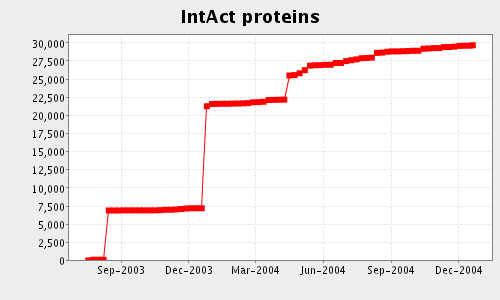
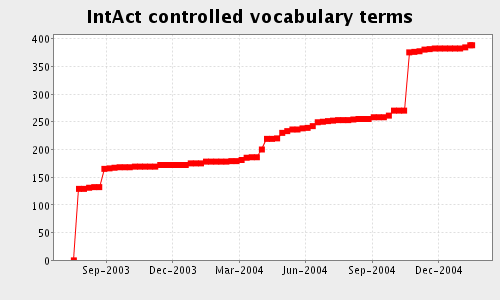
2005-02 release

Changed region(s): [[0.06, 0.12, 0.96, 0.93], [0.15, 0.03, 0.84, 0.09]]

diff --git a/trunk/intactCore/application/intact/news.html b/trunk/intactCore/application/intact/news.html
@@ -29,18 +29,25 @@
 
           </span><span class="psmall"><span class="psmall"><span style="text-decoration: underline;">
           <span style="font-weight: bold;">Next release</span></span>
-            will be February 1, 2005. We expect the server to be down from 11:00-11:30AM British Summer Time.
+            will be March 1st, 2005. We expect the server to be down from 11:00-11:30AM British Summer Time.
+          <br>
           <br>
 
+          <span class="psmall">February 1st, 2005:<br>
+          <span style="font-weight: bold; text-decoration: underline;">New datasets</span>:<br>
+          The human histone deacetylase, SIRT2, interacts with other histone deacetylases and transcription regulators,
+          which modulates gene expression and development.<br>
+          <a href="http://www.ebi.ac.uk/intact/search/do/search?searchString=12887892&searchClass=Experiment">Fulco et al.</a>
+          <a href="http://www.ebi.ac.uk/intact/search/do/search?searchString=12620231&searchClass=Experiment">North et al.</a>
+          <br>
           <br>
 
           <span class="psmall">January 5, 2005:<br>
           <span style="font-weight: bold; text-decoration: underline;">New datasets</span>:<br>
           A yeast 2-hybrid map focused on Drosphila proteins with a role in cell-cycle regulation.<br>
-          <a href="http://www.ebi.ac.uk/intact/search/do/hvWelcome?searchString=15575970">Stanyon et al.</a>
+          <a href="http://www.ebi.ac.uk/intact/search/do/search?searchString=15575970&searchClass=Experiment">Stanyon et al.</a>
           <br>
           <br>
-
 
           </span><a href="search/"><span class="psmall"><span style="text-decoration: underline;">
           <span style="font-weight: bold;">Search</span></span></span></a><span class="psmall"> </span>
@@ -48,22 +55,20 @@
           <br>
           <br>
 
-
           <span class="psmall">December 1, 2004:<br>
           <span style="font-weight: bold; text-decoration: underline;">New datasets</span>:<br>
            G-protein effectors interactions:<br>
-          <a href="http://www.ebi.ac.uk/intact/search/do/hvWelcome?searchString=11799118">Lin et al.</a>
+          <a href="http://www.ebi.ac.uk/intact/search/do/search?searchString=11799118&searchClass=Experiment">Lin et al.</a>
           <br>
-          <a href="http://www.ebi.ac.uk/intact/search/do/hvWelcome?searchString=9660763">Rudolph et al.</a>
+          <a href="http://www.ebi.ac.uk/intact/search/do/search?searchString=9660763&searchClass=Experiment">Rudolph et al.</a>
           <br>
-          <a href="http://www.ebi.ac.uk/intact/search/do/hvWelcome?searchString=7493928">Burbelo et al.</a>
+          <a href="http://www.ebi.ac.uk/intact/search/do/search?searchString=7493928&searchClass=Experiment">Burbelo et al.</a>
           <br>
-          <a href="http://www.ebi.ac.uk/intact/search/do/hvWelcome?searchString=15123659">Gu et al.</a>
+          <a href="http://www.ebi.ac.uk/intact/search/do/search?searchString=15123659&searchClass=Experiment">Gu et al.</a>
           <br>
-          <a href="http://www.ebi.ac.uk/intact/search/do/hvWelcome?searchString=12745076">Mataraza et al</a>
+          <a href="http://www.ebi.ac.uk/intact/search/do/search?searchString=12745076&searchClass=Experiment">Mataraza et al</a>
           <br>
           <br>
-
 
           <a href="doc/html/tutorial/index.html"><b>IntAct API</b></a> tutorial available.</span>
           <br>
@@ -72,7 +77,7 @@
           <span class="psmall">November 1, 2004:<br>
           <span style="font-weight: bold; text-decoration: underline;">New datasets</span>:<br>
             Target of Arabidopsis thioredoxin revealed,<br>
-          <a href="http://www.ebi.ac.uk/intact/search/do/hvWelcome?searchString=15352244">Marchand et. al.</a>
+          <a href="http://www.ebi.ac.uk/intact/search/do/search?searchString=15352244&searchClass=Experiment">Marchand et. al.</a>
           <br>
           <br>
 
@@ -82,25 +87,23 @@
           New datasets</span></span>:
           <br>
           </span><span class="psmall">Tumor suppressor LATS1 interactions:<br>
-          <a href="http://www.ebi.ac.uk/intact/search/do/hvWelcome?searchString=9988268">Tao et al</a>,<br>
-          </span><span class="psmall"><a href="http://www.ebi.ac.uk/intact/search/do/hvWelcome?searchString=15220930">Yang et al</a>,
+          <a href="http://www.ebi.ac.uk/intact/search/do/search?searchString=9988268">Tao et al</a>,<br>
+          </span><span class="psmall"><a href="http://www.ebi.ac.uk/intact/search/do/search?searchString=15220930&searchClass=Experiment">Yang et al</a>,
           <br>
-          </span><span class="psmall"><a href="http://www.ebi.ac.uk/intact/search/do/hvWelcome?searchString=10831611">Hirota et al</a></span><span class="psmall">.
+          </span><span class="psmall"><a href="http://www.ebi.ac.uk/intact/search/do/search?searchString=10831611&searchClass=Experiment">Hirota et al</a></span><span class="psmall">.
           <br>
-
 
           </span></span><span class="psmall">
           <span class="psmall">September 1, 2004: </span><br>
           <span class="psmall"><span style="text-decoration: underline;">
           <span style="font-weight: bold;">New datasets</span></span>:<br>
           </span><span class="psmall">Detailed analysis of the mediator complex:<br>
-          <a href="http://www.ebi.ac.uk/intact/search/do/hvWelcome?searchString=12149480 ">Brower et al</a>,<br>
-          </span><span class="psmall"><a href="http://www.ebi.ac.uk/intact/search/do/hvWelcome?searchString=12963728 ">Cai et al.</a>,<br>
-          </span><span class="psmall"><a href="http://www.ebi.ac.uk/intact/search/do/hvWelcome?searchString=14638676 ">Tomomori et al.</a>,<br>
-          </span><span class="psmall"><a href="http://www.ebi.ac.uk/intact/search/do/hvWelcome?searchString=12584197,14576168,15175163 ">Sato et al.</a>.</span><span class="psmall"></span><span class="psmall"></span><br>
+          <a href="http://www.ebi.ac.uk/intact/search/do/search?searchString=12149480 ">Brower et al</a>,<br>
+          </span><span class="psmall"><a href="http://www.ebi.ac.uk/intact/search/do/search?searchString=12963728&searchClass=Experiment">Cai et al.</a>,<br>
+          </span><span class="psmall"><a href="http://www.ebi.ac.uk/intact/search/do/search?searchString=14638676&searchClass=Experiment">Tomomori et al.</a>,<br>
+          </span><span class="psmall"><a href="http://www.ebi.ac.uk/intact/search/do/search?searchString=12584197,14576168,15175163&searchClass=Experiment">Sato et al.</a>.</span><span class="psmall"></span><span class="psmall"></span><br>
           <span class="psmall">
           <br>
-
 
           </span><a href="mine/"><span class="psmall"><span style="text-decoration: underline;">
           <span style="font-weight: bold;">MiNe</span></span></span></a><span class="psmall"> </span>
@@ -110,33 +113,29 @@
           <br>
           <br>
 
-
           </span><span class="psmall">July 1, 2004: <br>
           <span style="text-decoration: underline;"><span style="font-weight: bold;">New datasets</span></span>:<br>
           </span>
-          <a href="http://www.ebi.ac.uk/intact/search/do/hvWelcome?searchString=12577067 ">Blagoev et al</a>.
+          <a href="http://www.ebi.ac.uk/intact/search/do/search?searchString=12577067&searchClass=Experiment">Blagoev et al</a>.
           <br>
-
 
           <span class="psmall"><br>
           </span><span class="psmall">June 1, 2004: <br>
           <span style="text-decoration: underline;"><span style="font-weight: bold;">New datasets</span></span>:<br>
           </span>
-          <a href="http://www.ebi.ac.uk/intact/search/do/hvWelcome?searchString=14743216">Bouwmeester et al</a>,<br>
-          <a href="http://www.ebi.ac.uk/intact/search/do/hvWelcome?searchString=14992718">Tewari et al</a>,<br>
-          <a href="http://www.ebi.ac.uk/intact/search/do/hvWelcome?searchString=11242053">Lachner et al</a>,<br>
-          <a href="http://www.ebi.ac.uk/intact/search/do/hvWelcome?searchString=14667819">Lehner et al</a>.<span class="psmall"></span>
+          <a href="http://www.ebi.ac.uk/intact/search/do/search?searchString=14743216&searchClass=Experiment">Bouwmeester et al</a>,<br>
+          <a href="http://www.ebi.ac.uk/intact/search/do/search?searchString=14992718&searchClass=Experiment">Tewari et al</a>,<br>
+          <a href="http://www.ebi.ac.uk/intact/search/do/search?searchString=11242053&searchClass=Experiment">Lachner et al</a>,<br>
+          <a href="http://www.ebi.ac.uk/intact/search/do/search?searchString=14667819&searchClass=Experiment">Lehner et al</a>.<span class="psmall"></span>
           <br>
-
 
           <span class="psmall"><br> </span>
           <span class="psmall"><span style="text-decoration: underline;">
           <span style="font-weight: bold;">C. elegans interactome datasets added</span></span></span>
           <span class="psmall"><span style="font-weight: bold;">:</span><br>
-          </span><a href="http://www.ebi.ac.uk/intact/search/do/hvWelcome?searchString=14704431%20 ">Li et al and related publications</a>&nbsp;
+          </span><a href="http://www.ebi.ac.uk/intact/search/do/search?searchString=14704431&searchClass=Experiment">Li et al and related publications</a>&nbsp;
           <span class="psmall">describe &gt;4500 interactions.</span><span class="psmall"><br>
           <br>
-
 
             April 1, 2004: <br>
             </span><a href="http://cvs.sourceforge.net/cgi-bin/viewcvs.cgi/intact/intactCore/"><span style="text-decoration: underline;">

diff --git a/trunk/intactCore/application/intact/doc/misc/statistics/index.html b/trunk/intactCore/application/intact/doc/misc/statistics/index.html
@@ -20,7 +20,13 @@
         
 
 
-<!--    The layout for the side bar, which consists of intact logo, input dialog box    and menu. Except for the logo, other two components are optional.    Author: Sugath Mudali (smudali@ebi.ac.uk)    Version: $Id$-->
+<!--
+    The layout for the side bar, which consists of intact logo, input dialog box
+    and menu. Except for the logo, other two components are optional.
+
+    Author: Sugath Mudali (smudali@ebi.ac.uk)
+    Version: $Id$
+-->
 
 <table border="0" cellpadding="0" cellspacing="0" width="100%">
 
@@ -31,30 +37,9 @@
         </td>
     </tr>
 
-    <!-- filter -->
-    <tr>
-        <td>
-            
-
-<!--   - Copyright (c) 2002 The European Bioinformatics Institute, and others.   - All rights reserved. Please see the file LICENSE   - in the root directory of this distribution.   -   - This layout displays graph management components for hierarchView.   - According to the current state of the displayed graph : its depth,   - we display button in order to get expanded or contracted.   - We show only available options (e.g. if the depth can be desacrease   - we don't show the contract button).   -   - @author Samuel Kerrien (skerrien@ebi.ac.uk)   - @version $Id$-->
-
-
-
-
-
-
-
-
-
-
-
-        </td>
-    </tr>
-
-    
     <tr>
 		<td>
-            
+
 
 <table>
 
@@ -65,6 +50,10 @@
           </th>
         </tr>
     
+
+    
+    
+        
 
         <tr>
           <td valign="top" width="10"></td>
@@ -106,7 +95,16 @@
             <tr>
                 <td height="*" valign="top">
                     <!-- No errors if none specified -->
-                    <!--- Copyright (c) 2002 The European Bioinformatics Institute, and others.- All rights reserved. Please see the file LICENSE- in the root directory of this distribution.-- That page is displaying some statistics about the curent intact node.-- @author Sophie Huet (shuet@ebi.ac.uk), Samuel Kerrien (skerrien@ebi.ac.uk)- @version $Id$-->
+                    <!--
+- Copyright (c) 2002 The European Bioinformatics Institute, and others.
+- All rights reserved. Please see the file LICENSE
+- in the root directory of this distribution.
+-
+- That page is displaying some statistics about the curent intact node.
+-
+- @author Sophie Huet (shuet@ebi.ac.uk), Samuel Kerrien (skerrien@ebi.ac.uk)
+- @version $Id$
+-->
 
 
 
@@ -125,12 +123,16 @@
 <tr>
 <td height="*" valign="top">
 
-<!--        Comment for developpers.        This is the Database from which we extracted the data.        Database: d002-->
+<!--
+        Comment for developpers.
+        This is the Database from which we extracted the data.
+        Database: d002
+-->
 
             
 
             IntAct database contents as of
-            <b>04 Jan 2005</b>.
+            <b>1st Feb 2005</b>.
 
             <br>
             </td>
@@ -149,27 +151,27 @@
 </tr>
 <tr class="tableRowOdd">
 <td class="tableCellAlignRight" align="left" valign="top" width="22%">Proteins</td>
-<td class="tableCellAlignRight" align="left" valign="top" width="8%">29670</td>
+<td class="tableCellAlignRight" align="left" valign="top" width="8%">29915</td>
 <td class="tableCell" align="left" valign="top" width="70%">Number of proteins in the database</td>
 </tr>
 <tr class="tableRowEven">
 <td class="tableCellAlignRight" align="left" valign="top" width="22%">Interactions</td>
-<td class="tableCellAlignRight" align="left" valign="top" width="8%">39429</td>
+<td class="tableCellAlignRight" align="left" valign="top" width="8%">39715</td>
 <td class="tableCell" align="left" valign="top" width="70%">Number of binary interactions and complexes</td>
 </tr>
 <tr class="tableRowOdd">
 <td class="tableCellAlignRight" align="left" valign="top" width="22%">Binary interactions</td>
-<td class="tableCellAlignRight" align="left" valign="top" width="8%">48186</td>
+<td class="tableCellAlignRight" align="left" valign="top" width="8%">48474</td>
 <td class="tableCell" align="left" valign="top" width="70%">Number of binary interactions, n-ary interactions expanded according to the "spoke" model</td>
 </tr>
 <tr class="tableRowEven">
 <td class="tableCellAlignRight" align="left" valign="top" width="22%">Experiments</td>
-<td class="tableCellAlignRight" align="left" valign="top" width="8%">973</td>
+<td class="tableCellAlignRight" align="left" valign="top" width="8%">1007</td>
 <td class="tableCell" align="left" valign="top" width="70%">Distinct experiments</td>
 </tr>
 <tr class="tableRowOdd">
 <td class="tableCellAlignRight" align="left" valign="top" width="22%">Terms</td>
-<td class="tableCellAlignRight" align="left" valign="top" width="8%">382</td>
+<td class="tableCellAlignRight" align="left" valign="top" width="8%">388</td>
 <td class="tableCell" align="left" valign="top" width="70%">Controlled vocabulary terms</td>
 </tr>
 </tbody></table>
@@ -193,31 +195,20 @@
             <tbody><tr>
             <td height="*" valign="top">
 
-            <map name="jfreechart-3396.png"></map>
+            <map name="jfreechart-3637.png"></map>
 
 
-            <img src="index_files/DisplayChart_003.png" usemap="#jfreechart-3396.png" border="0" height="300" width="500">
+            <img src="index_files/DisplayChart_003.png" usemap="#jfreechart-3637.png" border="0" height="300" width="500">
 
             </td>
             </tr>
             <tr>
                 <td height="*" valign="top">
 
-                    <map name="jfreechart-3397.png"></map>
+                    <map name="jfreechart-3638.png"></map>
 
 
-                    <img src="index_files/DisplayChart_002.png" usemap="#jfreechart-3397.png" border="0" height="300" width="500">
-
-                </td>
-            </tr>
-
-            <tr>
-                <td height="*" valign="top">
-
-                    <map name="jfreechart-3398.png"></map>
-
-
-                    <img src="index_files/DisplayChart.png" usemap="#jfreechart-3398.png" border="0" height="300" width="500">
+                    <img src="index_files/DisplayChart.png" usemap="#jfreechart-3638.png" border="0" height="300" width="500">
 
                 </td>
             </tr>
@@ -225,10 +216,10 @@
             <tr>
                 <td height="*" valign="top">
 
-                    <map name="jfreechart-3399.png"></map>
+                    <map name="jfreechart-3639.png"></map>
 
 
-                    <img src="index_files/DisplayChart_005.png" usemap="#jfreechart-3399.png" border="0" height="300" width="500">
+                    <img src="index_files/DisplayChart_004.png" usemap="#jfreechart-3639.png" border="0" height="300" width="500">
 
                 </td>
             </tr>
@@ -236,10 +227,21 @@
             <tr>
                 <td height="*" valign="top">
 
-                    <map name="jfreechart-3400.png"></map>
+                    <map name="jfreechart-3640.png"></map>
 
 
-                    <img src="index_files/DisplayChart_004.png" usemap="#jfreechart-3400.png" border="0" height="300" width="500">
+                    <img src="index_files/DisplayChart_002.png" usemap="#jfreechart-3640.png" border="0" height="300" width="500">
+
+                </td>
+            </tr>
+
+            <tr>
+                <td height="*" valign="top">
+
+                    <map name="jfreechart-3641.png"></map>
+
+
+                    <img src="index_files/DisplayChart_005.png" usemap="#jfreechart-3641.png" border="0" height="300" width="500">
 
                 </td>
             </tr>
@@ -276,7 +278,7 @@
         Please send any questions or suggestions to
             <a href="mailto:intact-help@ebi.ac.uk">intact-help@ebi.ac.uk</a>
         <br>
-        Last modified: <i>04-January-2005 09:00 AM by Samuel</i>
+        Last modified: <i>1st February 2005 by skerrien</i>
     </td>
     <td class="tableCell">
         <img src="index_files/struts-power.gif" align="right" border="0">
